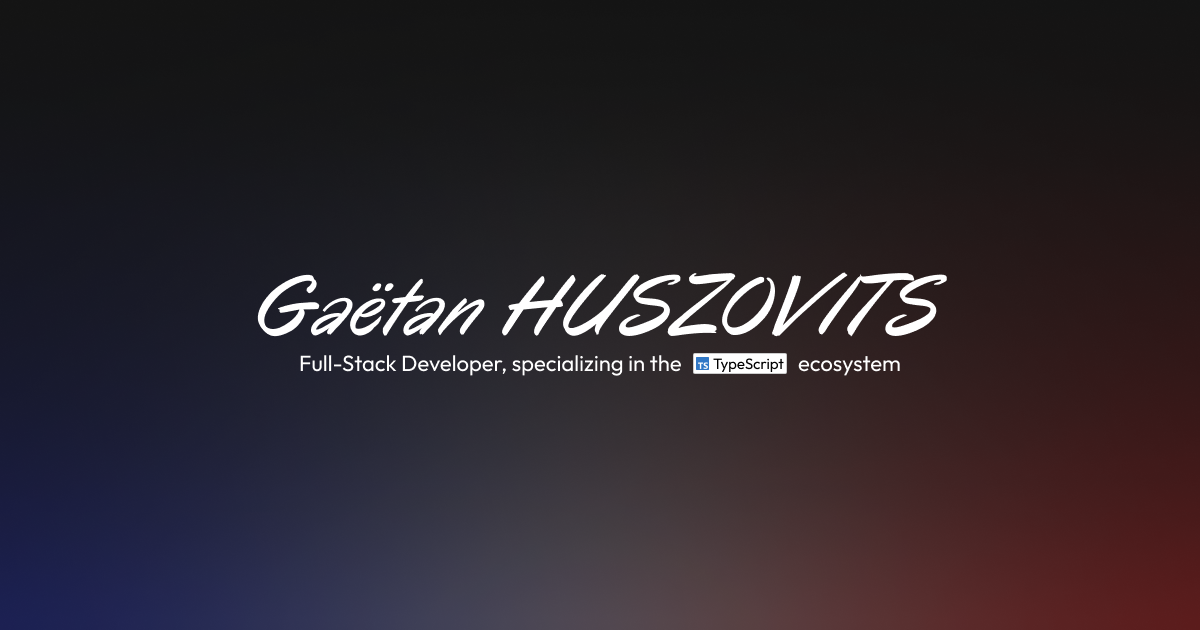
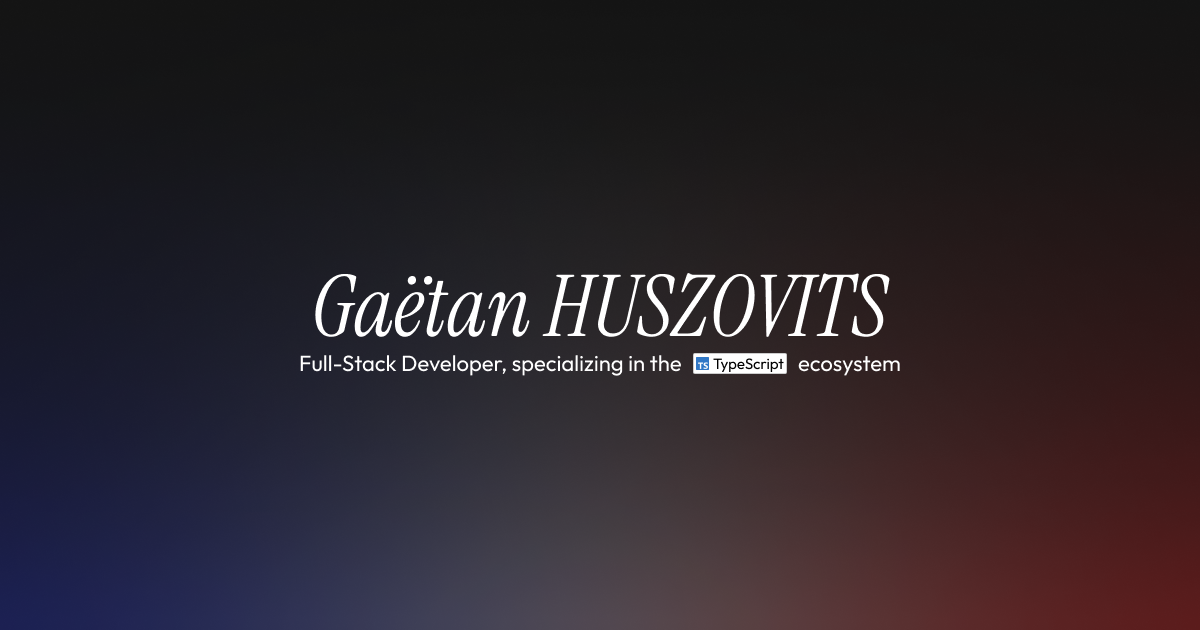
Update Open Graph image for enhanced social media sharing

Changed region(s): [[0.2158, 0.4222, 0.8017, 0.5429]]

diff --git a/app/layout.tsx b/app/layout.tsx
@@ -52,7 +52,7 @@ export const metadata: Metadata = {
     title: "Gaëtan Huszovits",
     description: "Full-Stack Developer specializing in the TypeScript ecosystem, passionate about building modern web applications with high performance, well-structured and modern technologies.",
     siteName: "Gaëtan Huszovits",
-    images: [{ url: `${CURRENT_URL}/og-image.png`, width: 1200, height: 630, alt: "Gaëtan Huszovits" }]
+    images: [{ url: `${CURRENT_URL}/og-image.png?v=2`, width: 1200, height: 630, alt: "Gaëtan Huszovits" }]
   },
   twitter: {
     card: "summary_large_image",
@@ -60,7 +60,7 @@ export const metadata: Metadata = {
     creator: "@Steellgold",
     title: "Gaëtan Huszovits",
     description: "Full-Stack Developer specializing in the TypeScript ecosystem, passionate about building modern web applications with high performance, well-structured and modern technologies.",
-    images: [{ url: `${CURRENT_URL}/og-image.png`, width: 1200, height: 630, alt: "Gaëtan Huszovits" }]
+    images: [{ url: `${CURRENT_URL}/og-image.png?v=2`, width: 1200, height: 630, alt: "Gaëtan Huszovits" }]
   }
 }
 
